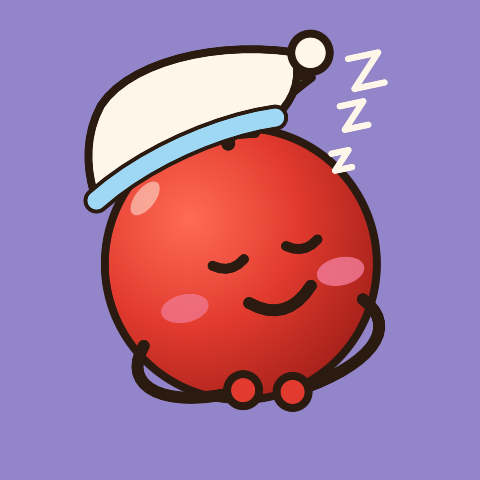
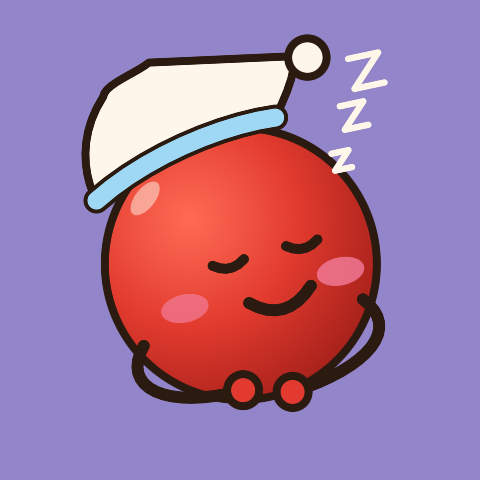
fix: doff the crown and pare the nightcap thin
The crown is drawn swept 8 degrees right, so its tip escapes any cap matching the approved mockup's thin taper; the mockup drew no crown, and now the asleep pose doesn't either (MascotPose.crowned). Replaces the swept-crown coverage test from this branch: its premise — cap geometry covering drawn leaves — is void once the crown is doffed; the render-level no-leaf-green test pins the outcome instead.

Changed region(s): [[0.1562, 0.0625, 0.7188, 0.4062], [0.4688, 0.2812, 0.5312, 0.3125]]

diff --git a/macos/Throwntom/Tests/ThrowntomUITests/HeldPropViewTests.swift b/macos/Throwntom/Tests/ThrowntomUITests/HeldPropViewTests.swift
@@ -59,29 +59,14 @@ final class HeldPropViewTests: XCTestCase {
     XCTAssertLessThan(bobble.midY, 14, "and stays up on the crown, not adrift down the face")
   }
 
-  /// The cap is pulled down over the crown like a real nightcap: the stem and both leaves sleep
-  /// under it, and no green pokes out of the cream. The crown is drawn swept 8° right about
-  /// (50, 20) and offset 4 to the right (`TomatoBodyView`), so these are the leaves' and stem's
-  /// extremes where they actually land, not where their paths put them; the swept right leaf tip
-  /// reaches past the cone, which is what the bobble is sized to cover.
-  func testTheNightcapCoversTheCrown() {
+  /// The cap sits where the crown was: it spans the head's top from its left edge to the swept
+  /// stem's seat, so the bare crown never shows around it. The stem and leaves themselves are not
+  /// drawn at all while it is worn — the asleep pose is not `crowned` — because the swept crown
+  /// reaches past any cap this thin, and `MascotSnapshotTests` proves no leaf green survives.
+  func testTheNightcapSpansTheCrown() {
     let cap = HeldProps.nightcapCone.path(in: canvas)
-    let bobble = HeldProps.nightcapBobble.path(in: canvas)
-    let sweptCrown = [
-      CGPoint(x: 77.0, y: 14.2), // right leaf tip
-      CGPoint(x: 75.1, y: 15.1), // right leaf inner edge, near the tip
-      CGPoint(x: 70.3, y: 12.3), // right leaf outer edge, mid
-      CGPoint(x: 67.7, y: 19.0), // right leaf inner edge, mid
-      CGPoint(x: 62.5, y: 10.1), // stem top
-      CGPoint(x: 44.0, y: 9.3), // left leaf top
-      CGPoint(x: 33.5, y: 8.0), // left leaf tip
-      CGPoint(x: 46.5, y: 23.0), // left leaf base
-    ]
-    for point in sweptCrown {
-      XCTAssertTrue(
-        cap.contains(point) || bobble.contains(point),
-        "the crown pokes out of the cap at \(point)",
-      )
+    for point in [CGPoint(x: 43, y: 20), CGPoint(x: 57, y: 20), CGPoint(x: 52, y: 14), CGPoint(x: 28, y: 13)] {
+      XCTAssertTrue(cap.contains(point), "the cap misses the crown at \(point)")
     }
   }
 

diff --git a/macos/Throwntom/Sources/ThrowntomUI/Mascot/HeldPropView.swift b/macos/Throwntom/Sources/ThrowntomUI/Mascot/HeldPropView.swift
@@ -129,14 +129,17 @@ enum HeldProps {
     path.line(units, 88, 22)
   }
 
-  /// The nightcap: a cone pulled down over the crown, its brim riding the top of the head and its
-  /// point flopped to the near side. The stem and both leaves sleep under it — the cap replaces the
-  /// crown for the night rather than perching beside it.
+  /// The nightcap: a cone pulled down where the crown was, its brim riding the top of the head and
+  /// its point flopped to the near side. Past the crest at (38, 2) the top edge is a straight
+  /// taper — the sharp angle there is what keeps it a cap and not a pillow. It replaces the crown
+  /// outright: the asleep pose is not `crowned`, because the crown is drawn swept far enough right
+  /// (`TomatoBodyView`) that no cap this thin could cover its tip.
   static let nightcapCone = DesignShape { path, units in
     path.move(units, 18, 33)
-    path.curve(units, 17, 26, 18, 17, 24, 10)
-    path.curve(units, 33, 1, 55, 0, 74, 7)
-    path.curve(units, 74.5, 13, 72.5, 18, 66, 22)
+    path.curve(units, 16, 26, 17, 16, 25, 8)
+    path.curve(units, 26, 5, 34, 4, 38, 2)
+    path.line(units, 74, 8)
+    path.curve(units, 73, 12.5, 70, 17, 66, 22)
     path.curve(units, 52, 21, 32, 25, 18, 33)
     path.closeSubpath()
   }
@@ -149,7 +152,7 @@ enum HeldProps {
   }
 
   static let nightcapBobble = DesignShape { path, units in
-    path.circle(units, 78, 8, 4.8)
+    path.circle(units, 77, 9, 4.8)
   }
 
   /// How many Z's drift off the cap at once.

diff --git a/macos/Throwntom/Sources/ThrowntomUI/Mascot/TomatoBodyView.swift b/macos/Throwntom/Sources/ThrowntomUI/Mascot/TomatoBodyView.swift
@@ -47,21 +47,24 @@ enum TomatoBody {
 // MARK: - TomatoBodyView
 
 /// Body, stem and leaves on a `100 * unit` square. The leaves are swept 8° to the right so the
-/// crown follows the turned face.
+/// crown follows the turned face; a pose that is not `crowned` doffs them.
 struct TomatoBodyView: View {
+  let crowned: Bool
   let unit: CGFloat
 
   var body: some View {
     ZStack {
       TomatoBody.outline.fill(TomatoBody.shading(unit: unit))
       TomatoBody.outline.stroke(Palette.outline.color, lineWidth: 2 * unit)
-      ZStack {
-        TomatoBody.leaves.fill(TomatoBody.leafShading)
-        TomatoBody.leaves.stroke(Palette.outline.color, style: StrokeStyle(lineWidth: 2 * unit, lineJoin: .round))
-        TomatoBody.stem.stroke(Palette.outline.color, style: StrokeStyle(lineWidth: 3.5 * unit, lineCap: .round))
+      if crowned {
+        ZStack {
+          TomatoBody.leaves.fill(TomatoBody.leafShading)
+          TomatoBody.leaves.stroke(Palette.outline.color, style: StrokeStyle(lineWidth: 2 * unit, lineJoin: .round))
+          TomatoBody.stem.stroke(Palette.outline.color, style: StrokeStyle(lineWidth: 3.5 * unit, lineCap: .round))
+        }
+        .rotationEffect(.degrees(8), anchor: UnitPoint(x: 0.5, y: 0.2))
+        .offset(x: 4 * unit)
       }
-      .rotationEffect(.degrees(8), anchor: UnitPoint(x: 0.5, y: 0.2))
-      .offset(x: 4 * unit)
     }
     .frame(width: Units.canvas * unit, height: Units.canvas * unit)
   }

diff --git a/macos/Throwntom/Sources/ThrowntomUI/Mascot/MascotPose.swift b/macos/Throwntom/Sources/ThrowntomUI/Mascot/MascotPose.swift
@@ -65,6 +65,10 @@ struct MascotPose: Equatable {
   var held: HeldProp?
   var worn: WornProp?
   var furniture: Furniture?
+  /// Whether the stem and leaves are drawn. The asleep pose doffs them: its cap replaces the
+  /// crown for the night, and the crown is drawn swept far enough right that no cap thin enough
+  /// to match the design could cover it instead.
+  var crowned = true
   var rotation: Double
   var scale: Double
   var offset: CGSize

diff --git a/macos/Throwntom/Tests/ThrowntomUITests/MascotPoseTests.swift b/macos/Throwntom/Tests/ThrowntomUITests/MascotPoseTests.swift
@@ -52,6 +52,7 @@ final class MascotPoseTests: XCTestCase {
 
     XCTAssertEqual(asleep.eyes, .closed)
     XCTAssertEqual(asleep.held, .nightcap)
+    XCTAssertFalse(asleep.crowned, "the cap replaces the crown; drawing both leaks the swept leaf tip")
     XCTAssertEqual(asleep.motions, [.breathe, .zzz])
     XCTAssertEqual(MascotPose.awaitingConfirm.held, .exclamation, "the pose it replaces still holds the shout")
   }

diff --git a/macos/Throwntom/Sources/ThrowntomUI/Mascot/MascotView.swift b/macos/Throwntom/Sources/ThrowntomUI/Mascot/MascotView.swift
@@ -80,7 +80,7 @@ struct MascotCharacterView: View {
   private func layerView(_ layer: CharacterLayer) -> some View {
     switch layer {
     case .body:
-      TomatoBodyView(unit: unit)
+      TomatoBodyView(crowned: pose.crowned, unit: unit)
     case .face:
       TomatoFaceView(eyes: Self.eyes(for: pose, frame: frame), mouth: pose.mouth, unit: unit)
     case .arms:

diff --git a/macos/Throwntom/Tests/ThrowntomUITests/TomatoBodyViewTests.swift b/macos/Throwntom/Tests/ThrowntomUITests/TomatoBodyViewTests.swift
@@ -22,7 +22,8 @@ final class TomatoBodyViewTests: XCTestCase {
 
   @MainActor
   func testBodyBuilds() {
-    _ = TomatoBodyView(unit: 2).body
+    _ = TomatoBodyView(crowned: true, unit: 2).body
+    _ = TomatoBodyView(crowned: false, unit: 2).body
   }
 
   // MARK: Private

diff --git a/macos/Throwntom/Sources/ThrowntomUI/Mascot/MascotPoses.swift b/macos/Throwntom/Sources/ThrowntomUI/Mascot/MascotPoses.swift
@@ -113,6 +113,7 @@ extension MascotPose {
     held: .nightcap,
     worn: nil,
     furniture: nil,
+    crowned: false,
     rotation: -12,
     scale: 1,
     offset: .zero,

diff --git a/DESIGN.md b/DESIGN.md
@@ -346,7 +346,7 @@ a menu has to be guessed at before it can be opened.
 
 ### Mascot (macOS)
 
-The README tomato drawn in code on a 100×100 canvas scaled to 200pt: a radial-gradient body with a 2-unit `macos-outline` stroke, stem and two gradient leaves, a cream glint, two blush cheeks, eyes with a white catchlight, a mouth, and two thin line arms (3-unit `macos-outline`) that hang from one shoulder per side, ending in round `mascot-body` hands. The whole character is rotated 12° counter-clockwise and the face is drawn three-quarter, features shifted toward the near side, so it reads as turned slightly away like the README sticker. One pose per phase — laptop for work, the same laptop and a worn headset for a meeting, cold drink for short break, reading on a sofa for long break, a cheeseburger in both hands for lunch, a yo-yo for idle, arms up for awaiting confirm, eyes closed and still for paused, asleep in a nightcap for a running snooze, a yanked cable for disconnected — with props always drawn so the tomato faces them, not the viewer. Lunch and the long break share a ground, so the pose is the second thing that separates them after the name, and a meeting and work share one the same way. The asleep pose is the one the daemon's phase does not choose — a snooze is reported beside the state — and it is drawn as the opposite of the awaiting-confirm pose it stands in for: eyes shut, the `!` put down, arms folded low, and the jump gone. Its cap is pulled down over the crown like a real nightcap — the brim rides the top of the head, the point flops to the near side with the bobble past its tip, and the stem and both leaves sleep under it; the Z's never touch one another, so they read as three. A worn prop is neither a held prop nor furniture: it is drawn inside the character transform, so it turns and breathes with the body, where furniture stays put in canvas coordinates. `docs/designs/mascot-screenshots/` holds the rendered poses, regenerated by `tools/mascot-snap.sh`. Idle motion (blink, ±2° breathing bob, the yo-yo's drop and return, a jump on awaiting confirm, three Z's drifting up off the nightcap on a 4-second cycle over the 3-second breath) is small and off under Reduce Motion. The Z's are staggered by thirds of that cycle, so the still frame Reduce Motion draws is a small-to-large `zZZ` rather than a blank space or three of the same Z.
+The README tomato drawn in code on a 100×100 canvas scaled to 200pt: a radial-gradient body with a 2-unit `macos-outline` stroke, stem and two gradient leaves, a cream glint, two blush cheeks, eyes with a white catchlight, a mouth, and two thin line arms (3-unit `macos-outline`) that hang from one shoulder per side, ending in round `mascot-body` hands. The whole character is rotated 12° counter-clockwise and the face is drawn three-quarter, features shifted toward the near side, so it reads as turned slightly away like the README sticker. One pose per phase — laptop for work, the same laptop and a worn headset for a meeting, cold drink for short break, reading on a sofa for long break, a cheeseburger in both hands for lunch, a yo-yo for idle, arms up for awaiting confirm, eyes closed and still for paused, asleep in a nightcap for a running snooze, a yanked cable for disconnected — with props always drawn so the tomato faces them, not the viewer. Lunch and the long break share a ground, so the pose is the second thing that separates them after the name, and a meeting and work share one the same way. The asleep pose is the one the daemon's phase does not choose — a snooze is reported beside the state — and it is drawn as the opposite of the awaiting-confirm pose it stands in for: eyes shut, the `!` put down, arms folded low, and the jump gone. Its cap is pulled down where the crown was, like a real nightcap — the brim rides the top of the head and the point tapers sharply to the near side with the bobble past its tip. The crown comes off for the night: the pose doffs the stem and leaves rather than stuffing them under the cream, because the crown is drawn swept too far right for a cap this thin to cover. The Z's never touch one another, so they read as three. A worn prop is neither a held prop nor furniture: it is drawn inside the character transform, so it turns and breathes with the body, where furniture stays put in canvas coordinates. `docs/designs/mascot-screenshots/` holds the rendered poses, regenerated by `tools/mascot-snap.sh`. Idle motion (blink, ±2° breathing bob, the yo-yo's drop and return, a jump on awaiting confirm, three Z's drifting up off the nightcap on a 4-second cycle over the 3-second breath) is small and off under Reduce Motion. The Z's are staggered by thirds of that cycle, so the still frame Reduce Motion draws is a small-to-large `zZZ` rather than a blank space or three of the same Z.
 
 ### Chip (macOS)
 
